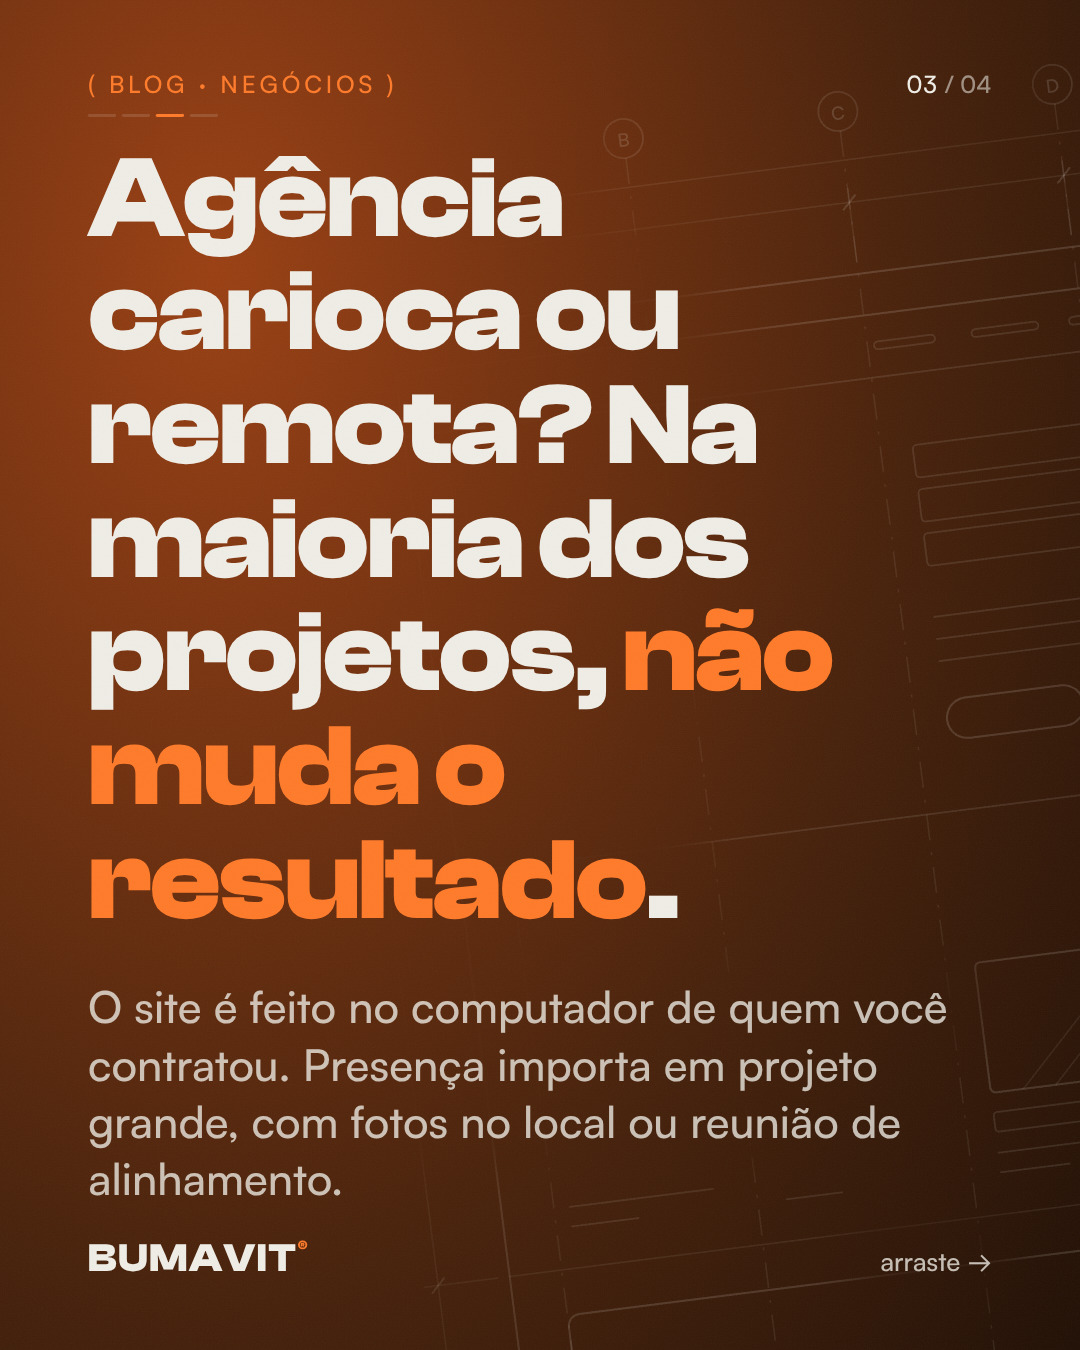
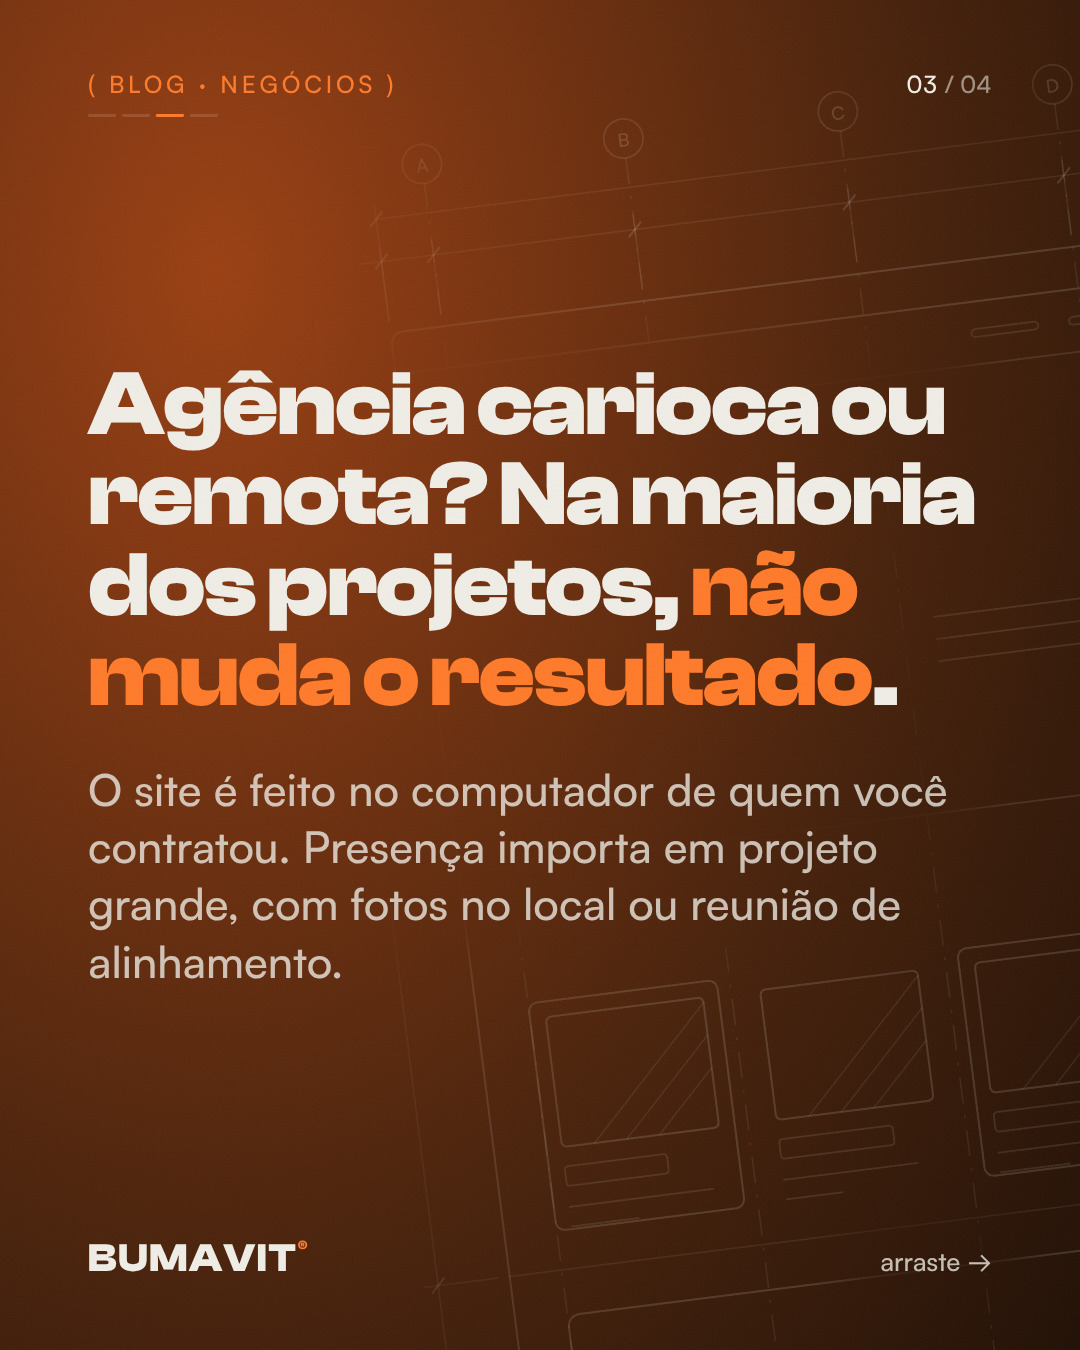
Posts 15 e 16: slide 3 com título menor e card 16 com "loja virtual" numa linha
Claude-Session: https://claude.ai/code/session_017KMX6LHaAkMpqLbNXggV12

Changed region(s): [[0.0611, 0.0933, 0.9167, 0.9022]]

diff --git a/images/instagram/ig-15-quanto-custa-site-rj/ig-15-quanto-custa-site-rj.html b/images/instagram/ig-15-quanto-custa-site-rj/ig-15-quanto-custa-site-rj.html
@@ -983,7 +983,8 @@
    "type": "statement",
    "variant": "b",
    "text": "Agência carioca ou remota? Na maioria dos projetos, *não muda o resultado*.",
-   "sub": "O site é feito no computador de quem você contratou. Presença importa em projeto grande, com fotos no local ou reunião de alinhamento."
+   "sub": "O site é feito no computador de quem você contratou. Presença importa em projeto grande, com fotos no local ou reunião de alinhamento.",
+   "fit": "92,64"
   },
   {
    "type": "cta",
@@ -1184,6 +1185,7 @@
       if (slide.shift) g.style.transform = 'translateY(' + slide.shift + 'px)';
       c.appendChild(g);
     }
+    if (slide.fit) { var ft = c.querySelector('.text.fit'); if (ft) ft.setAttribute('data-fit', slide.fit); } // per-slide "max,min" for the title, when the type's default reads too big (founder, post 15 slide 3)
     page.appendChild(c);
 
     // footer

diff --git a/images/instagram/ig-16-quanto-custa-loja-virtual/ig-16-quanto-custa-loja-virtual.html b/images/instagram/ig-16-quanto-custa-loja-virtual/ig-16-quanto-custa-loja-virtual.html
@@ -966,7 +966,7 @@
  "slides": [
   {
    "type": "article",
-   "text": "Quanto custa criar uma *loja virtual* profissional?",
+   "text": "Quanto custa criar uma\n*loja virtual* profissional?",
    "sub": "Três caminhos, o que faz o preço variar em cada um e o custo mensal que raramente aparece na proposta."
   },
   {
@@ -1184,6 +1184,7 @@
       if (slide.shift) g.style.transform = 'translateY(' + slide.shift + 'px)';
       c.appendChild(g);
     }
+    if (slide.fit) { var ft = c.querySelector('.text.fit'); if (ft) ft.setAttribute('data-fit', slide.fit); } // per-slide "max,min" for the title, when the type's default reads too big (founder, post 15 slide 3)
     page.appendChild(c);
 
     // footer
